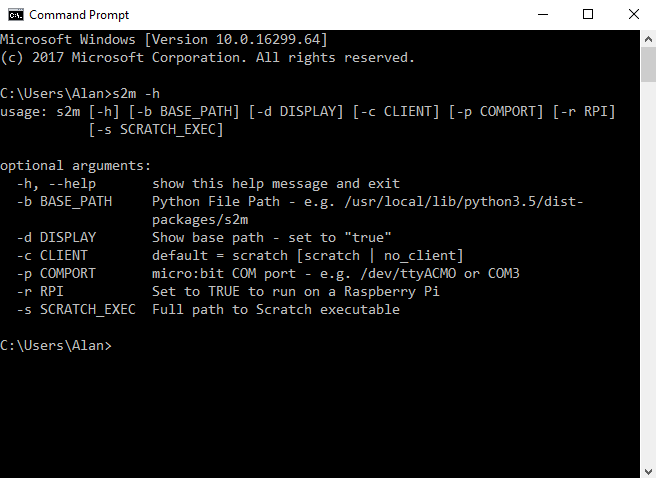
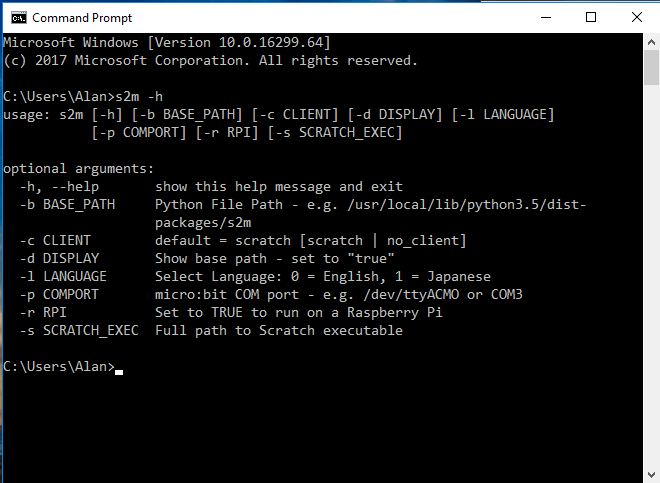
Deployed 3bd51c1 with MkDocs version: 0.17.1

Changed region(s): [[0.0, 0.0, 1.0, 1.0], [0.8841, 0.205, 0.9451, 0.2636], [0.9756, 0.9665, 1.0, 0.9958]]

diff --git a/usage/index.html b/usage/index.html
@@ -70,12 +70,6 @@
 
     <li class="toctree-l2"><a href="#command-line-options">Command Line Options</a></li>
     
-        <ul>
-        
-            <li><a class="toctree-l3" href="#special-note-for-raspberry-pi-users">Special Note For Raspberry Pi Users</a></li>
-        
-        </ul>
-    
 
     <li class="toctree-l2"><a href="#shutting-down">Shutting Down</a></li>
     
@@ -171,21 +165,47 @@ the port found.</p>
 <h1 id="command-line-options">Command Line Options</h1>
 <p>Some program defaults can be overridden at startup using command line options.</p>
 <p><img align="center" src="../images/s2m_help.png"></p>
-<p>The <strong>BASE_PATH</strong> allows you to override where s2m looks for its files. The standard</p>
+<p>The <strong>BASE_PATH</strong> option allows you to override where s2m looks for its files. The standard</p>
 <p><strong>BASE_PATH</strong> is the Python path printed when s2m first starts up.</p>
-<p>You may also display the BASE_PATH that is currently in use. If you select</p>
-<pre><code>s2m -d true
+<p>For example:</p>
+<pre><code>s2m -b c:\users\alan\appdata\local\programs\python\python36\lib\site-packages/s2m
 </code></pre>
 
-<p>the <strong>BASE_PATH</strong> is shown and then s2m exits.</p>
-<p>If the <strong>CLIENT</strong> is set to no_client, Scratch will not automatically launch. This is mainly
-used for debugging.</p>
-<p><strong>COMPORT</strong> allows you to manually specify which communications port the micro:bit is connected to.</p>
-<h3 id="special-note-for-raspberry-pi-users">Special Note For Raspberry Pi Users</h3>
-<p>You must set the -r option to "true" to allow s2m to launch correctly. See the
- <a href="#starting-s2m-on-the-raspberry-pi">previous section</a>.</p>
-<p><strong>SCRATCH_EXEC</strong> allows you to specify the full path and Scratch executable name if Scratch was not
-installed into the standard directory.</p>
+<p>The <strong>CLIENT</strong> option allows you to manually launch Scratch. This is mainly
+used for debugging. To manually launch Scratch enter:</p>
+<pre><code>s2m -c no_client
+</code></pre>
+
+<p>The <strong>DISPLAY</strong> option will print the path to the s2m operational files.
+You may display the BASE_PATH that is currently in use by entering:</p>
+<pre><code>s2m -d true
+
+</code></pre>
+
+<p>Once displayed, s2m will exit.</p>
+<p>By default, s2m launches Scratch with the extension blocks in English. To launch using one of the
+supported translations, use the <strong>LANGUAGE</strong> option. Each translation is assigned a 
+language ID number and used to select the correct language blocks. For example to select the Japanese translation, 
+enter:</p>
+<pre><code>s2m -l 1
+</code></pre>
+
+<p>The <strong>COMPORT</strong> option allows you to manually specify which communications port the micro:bit is connected to.</p>
+<p>For example, to select COM2, start s2m with:</p>
+<pre><code>s2m -p COM4
+
+</code></pre>
+
+<p>The <strong>RPI</strong> option is used when running s2m on a Raspberry Pi. To start s2m on the RPi, type:</p>
+<pre><code>s2m -r true
+</code></pre>
+
+<p>The <strong>SCRATCH_EXEC</strong>  option allows you to specify the full path and Scratch executable name if Scratch was not
+installed into the standard install directory.</p>
+<p>For example:</p>
+<pre><code>s2m -s C:\Users\Alan\Desktop\Scratch 2.exe
+</code></pre>
+
 <h1 id="shutting-down">Shutting Down</h1>
 <p>Before shutting down, make sure to save your Scratch project. To shutdown, press <strong>Control-C</strong> in the command window.
 This will close both s2m and Scratch. </p>

diff --git a/translation/index.html b/translation/index.html
@@ -182,19 +182,19 @@ your work.</p>
      4      &quot;url&quot;: &quot;https://mryslab.github.io/s2m/&quot;,
      5      &quot;blockSpecs&quot;: [
      6          [
-     7              &quot;w&quot;,
+     7              &quot; &quot;,
      8              &quot;Display %m.images&quot;,
      9              &quot;display_image&quot;,
     10              &quot;HAPPY&quot;
     11          ],
     12          [
-    13              &quot;w&quot;,
+    13              &quot; &quot;,
     14              &quot;Scroll %s&quot;,
     15              &quot;scroll&quot;,
     16              &quot;Replace With Your Text&quot;
     17          ],
     18          [
-    19              &quot;w&quot;,
+    19              &quot; &quot;,
     20              &quot;Write Pixel X %m.pixels Y %m.pixels Intensity %m.brightness&quot;,
     21              &quot;write_pixel&quot;,
     22              &quot;0&quot;,
@@ -202,19 +202,19 @@ your work.</p>
     24              &quot;9&quot;
     25          ],
     26          [
-    27              &quot;w&quot;,
+    27              &quot; &quot;,
     28              &quot;Clear Display&quot;,
     29              &quot;display_clear&quot;
     30          ],
     31          [
-    32              &quot;w&quot;,
+    32              &quot; &quot;,
     33              &quot;Digital Write Pin %m.pins Value %m.val&quot;,
     34              &quot;digital_write&quot;,
     35              &quot;0&quot;,
     36              &quot;0&quot;
     37          ],
     38          [
-    39              &quot;w&quot;,
+    39              &quot; &quot;,
     40              &quot;Analog Write Pin %m.pins Value %n&quot;,
     41              &quot;analog_write&quot;,
     42              &quot;0&quot;,
@@ -352,7 +352,7 @@ s2m to s2m_Italiano you would modify line 2 to look like </p>
 the block contains, a block identifier string, and a set of default values for the parameters. </p>
 <p>This is the descriptor for the Display image block.</p>
 <pre><code>     6          [
-     7              &quot;w&quot;,
+     7              &quot; &quot;,
      8              &quot;Display %m.images&quot;,
      9              &quot;display_image&quot;,
     10              &quot;HAPPY&quot;
@@ -370,7 +370,6 @@ the block contains, a block identifier string, and a set of default values for t
 <th align="center">Symbol</th>
 <th align="center">Block Type</th>
 <th align="center">Block Shape</th>
-<th align="center">Note</th>
 </tr>
 </thead>
 <tbody>
@@ -378,25 +377,16 @@ the block contains, a block identifier string, and a set of default values for t
 <td align="center">" "</td>
 <td align="center">Command</td>
 <td align="center">Rectangular</td>
-<td align="center"></td>
-</tr>
-<tr>
-<td align="center">"w"</td>
-<td align="center">Command</td>
-<td align="center">Rectangular</td>
-<td align="center">Wait for operation to complete</td>
 </tr>
 <tr>
 <td align="center">"b"</td>
 <td align="center">Boolean Reporter</td>
 <td align="center">Pointy</td>
-<td align="center"></td>
 </tr>
 <tr>
 <td align="center">"r"</td>
 <td align="center">Reporter</td>
 <td align="center">Round</td>
-<td align="center"></td>
 </tr>
 </tbody>
 </table>

diff --git a/blocks/index.html b/blocks/index.html
@@ -96,6 +96,9 @@
         </ul>
     
 
+    <li class="toctree-l2"><a href="#the-japanese-blocks">The Japanese Blocks</a></li>
+    
+
     </ul>
 	    </li>
           
@@ -189,6 +192,9 @@ it has been, and "false" if not.</p>
  1024 is returned.</p>
 <p><img align="center" src="../images/analog_read_block.png"></p>
 <h3 id="important-note-when-you-press-the-red-stop-button-in-the-scratch-editor-digital-and-analog-outputs-for-pins-0-1-and-2-will-be-set-to-0-and-the-led-display-will-be-cleared">IMPORTANT NOTE: When you press the Red Stop Button in the Scratch Editor, digital and analog outputs for pins 0, 1, and 2 will be set to 0, and the LED display will be cleared.</h3>
+<h1 id="the-japanese-blocks">The Japanese Blocks</h1>
+<p>The Japanese translation was provided by Junya Ishihara.</p>
+<p><img align="center" src="../images/japanese_blocks.png"></p>
               
             </div>
           </div>

diff --git a/index.html b/index.html
@@ -138,7 +138,7 @@
 <p><br>
 <img align="center" src="./images/logo3.png"></p>
 <p><br></p>
-<p><em>Last Updated: 28 November 2017</em></p>
+<p><em>Last Updated: 29 November 2017</em></p>
 <h1 id="so-what-is-s2m">So, What is s2m?</h1>
 <p><em><strong>s2m</strong></em> is an <em>open source</em> Python program that acts as a bridge between
  the <a href="https://scratch.mit.edu/download">Scratch 2 off-line editor</a>
@@ -228,5 +228,5 @@ that Raspberry Pi users can also enjoy programming with s2m.</p>
 
 <!--
 MkDocs version : 0.17.1
-Build Date UTC : 2017-11-28 23:13:08
+Build Date UTC : 2017-11-29 19:46:23
 -->
